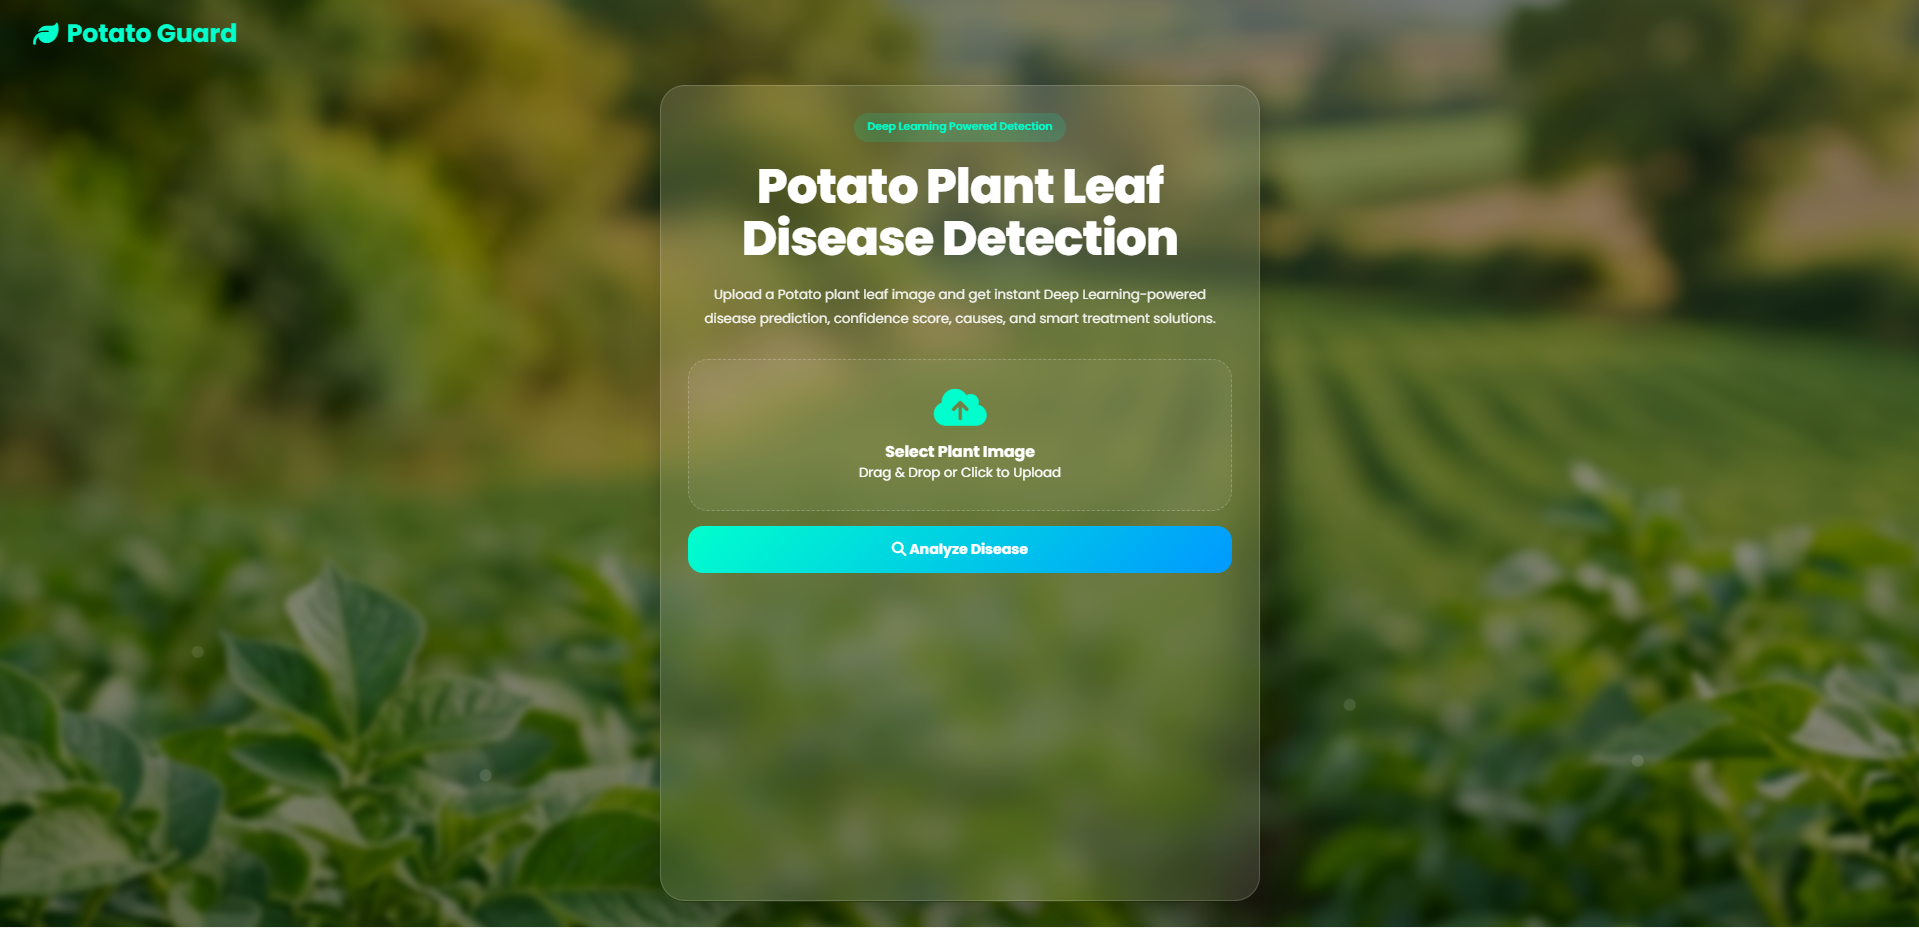
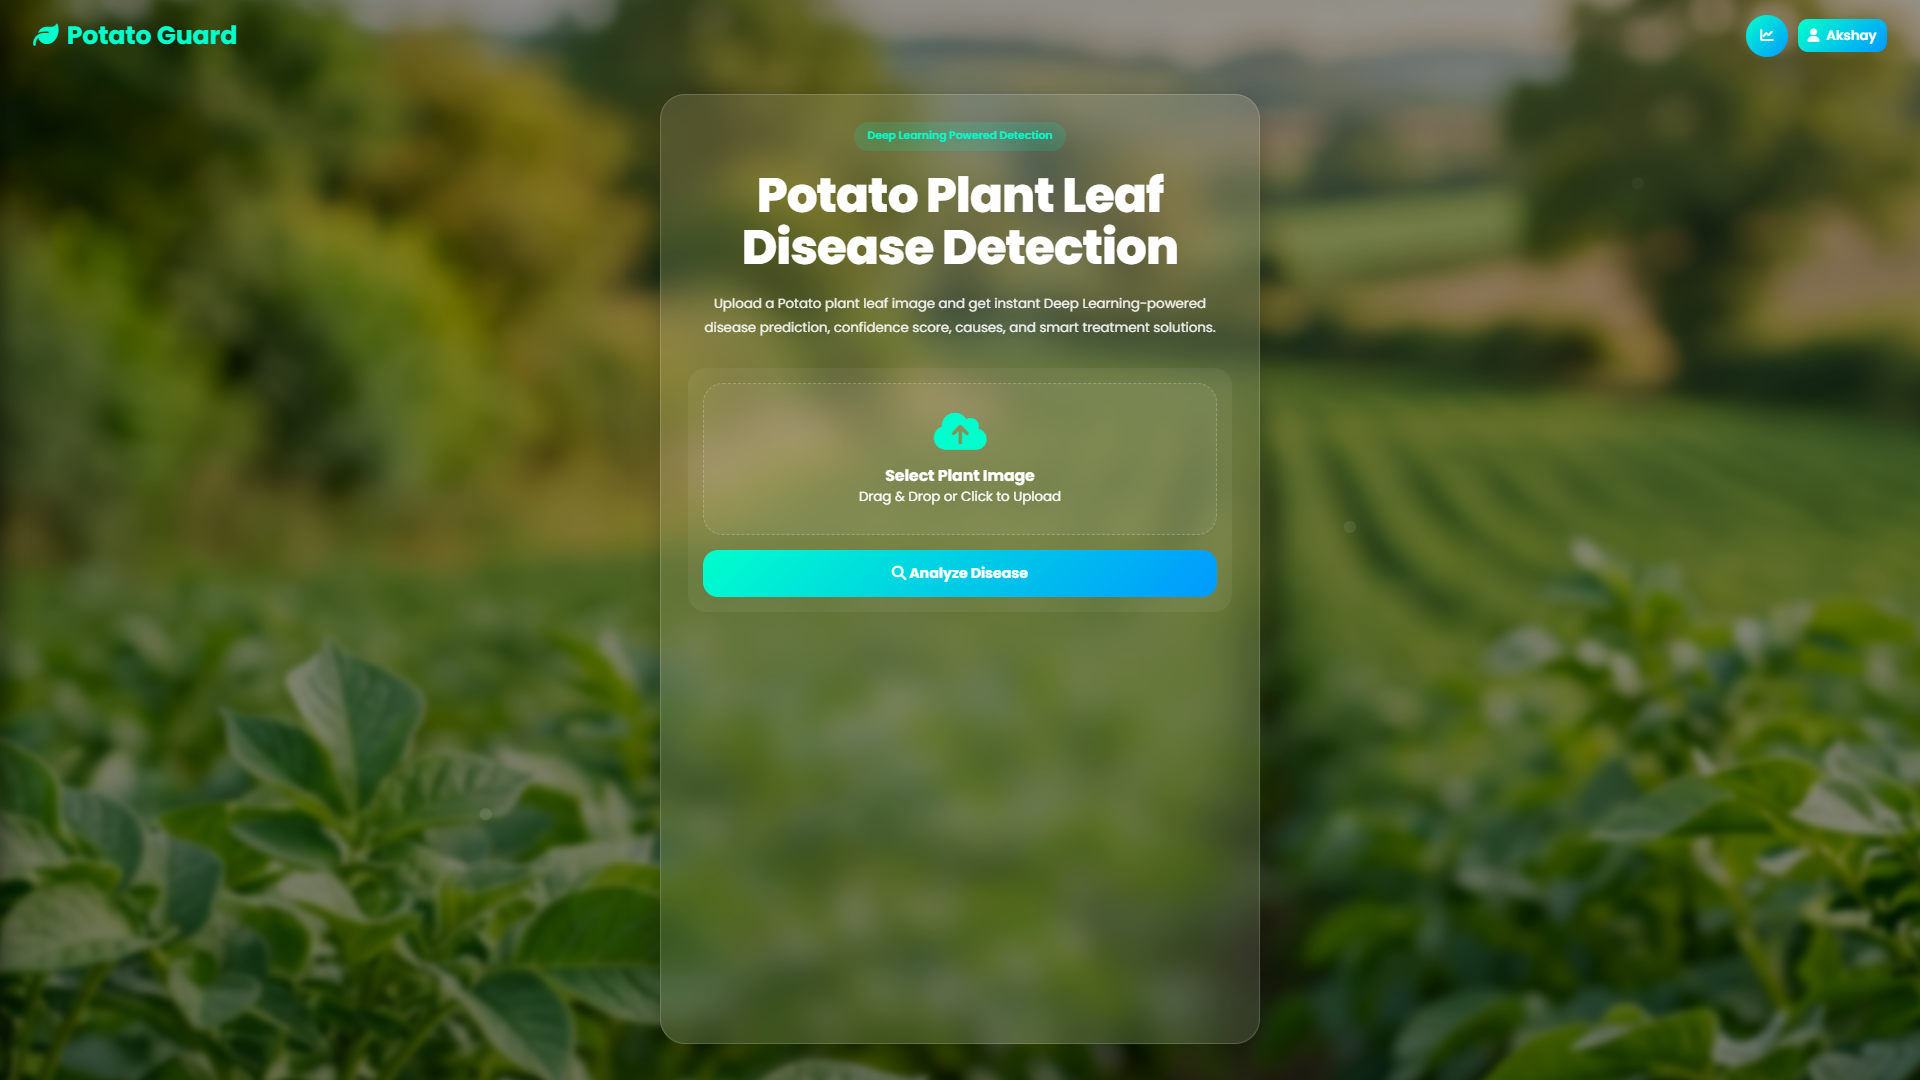
docs: add screenshots for sidebar logs, statistics dashboard, history popup modal, and user profile

diff --git a/README.md b/README.md
@@ -112,6 +112,30 @@ AI prediction result card displaying the classified label, confidence progress b
 
 ---
 
+### 🗂 Prediction History Sidebar
+Slide-out panel showcasing chronologically ordered past records with thumbnails and quick deletion actions:
+<img src="https://raw.githubusercontent.com/Akshay001-A/potato-plant-disease-recognition/main/static/images/history_sidebar.png" width="100%"/>
+
+---
+
+### 📈 Statistics & Analytics Dashboard
+Visual summary metrics detailing total diagnoses, healthy leaf logs, diseased leaf logs, and most common infection profiles:
+<img src="https://raw.githubusercontent.com/Akshay001-A/potato-plant-disease-recognition/main/static/images/dashboard.png" width="100%"/>
+
+---
+
+### 🔍 History Detail Popup Modal
+A clean diagnostic overlay revealing original uploaded plant images, prediction confidences, and precise crop treatment actions:
+<img src="https://raw.githubusercontent.com/Akshay001-A/potato-plant-disease-recognition/main/static/images/history_detail.png" width="100%"/>
+
+---
+
+### 👤 Glassmorphism User Profile Manager
+A premium profile management screen enabling custom credential updates and secure sign-out flows:
+<img src="https://raw.githubusercontent.com/Akshay001-A/potato-plant-disease-recognition/main/static/images/user_profile.png" width="100%"/>
+
+---
+
 # 🧬 Leaf Diagnosis Classes
 
 | Class | Type | Diagnostic Condition | Care Strategy |
